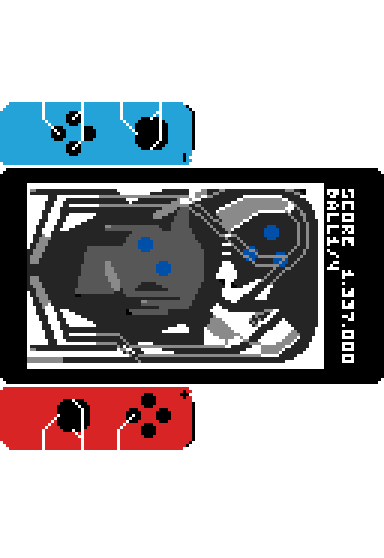
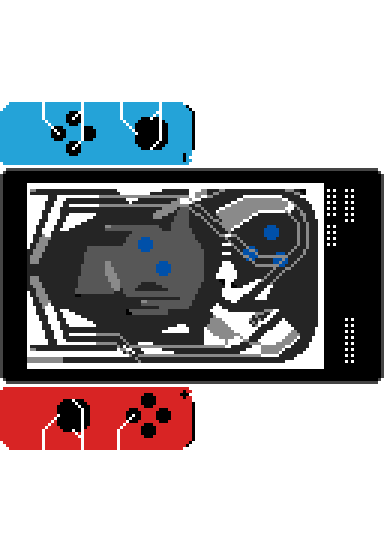
make info screen more compact

Changed region(s): [[0.0, 0.3047, 1.0, 0.7007], [0.0312, 0.2742, 0.9688, 0.3047], [0.8438, 0.3351, 0.9375, 0.6398]]

diff --git a/games/pinball/source/infoscreen.cpp b/games/pinball/source/infoscreen.cpp
@@ -1,22 +1,21 @@
 #include "infoscreen.h"
 
 InfoScreen::InfoScreen(C2DRenderer* renderer) {
-    m_shape = new C2DRectangle(Vector2f(600, 600));
+    m_shape = new C2DRectangle(Vector2f(500, 600));
     m_shape->setPosition(440, 60);
     m_shape->setLayer(-99);
-    m_shape->setFillColor(Color(25, 25, 25));
+    m_shape->setFillColor(Color::Black);
     renderer->add(m_shape);
     m_controlsImage = new C2DTexture(renderer->getIo()->getDataReadPath() + "pinballnx/controls.png");
-    m_controlsImage->setPosition(500, 80);
+    m_controlsImage->setPosition(480, 80);
     m_controlsImage->setLayer(-99);
     renderer->add(m_controlsImage);
     vector<string> infoText = {
-        "PINBALLNX","BY MINKCV",
-        "VERSION: 0.7"};
+        "PINBALLNX BY MINKCV - VERSION 0.7"};
     for (size_t t = 0; t < infoText.size(); t++) {
         C2DText* m_text = new C2DText(infoText.at(t));
         m_text->setCharacterSize(30);
-        m_text->setPosition(1020 - t * 35, 260);
+        m_text->setPosition(910 - t * 35, 120);
         m_text->setRotation(90);
         renderer->add(m_text);
         m_text->setLayer(-100);
